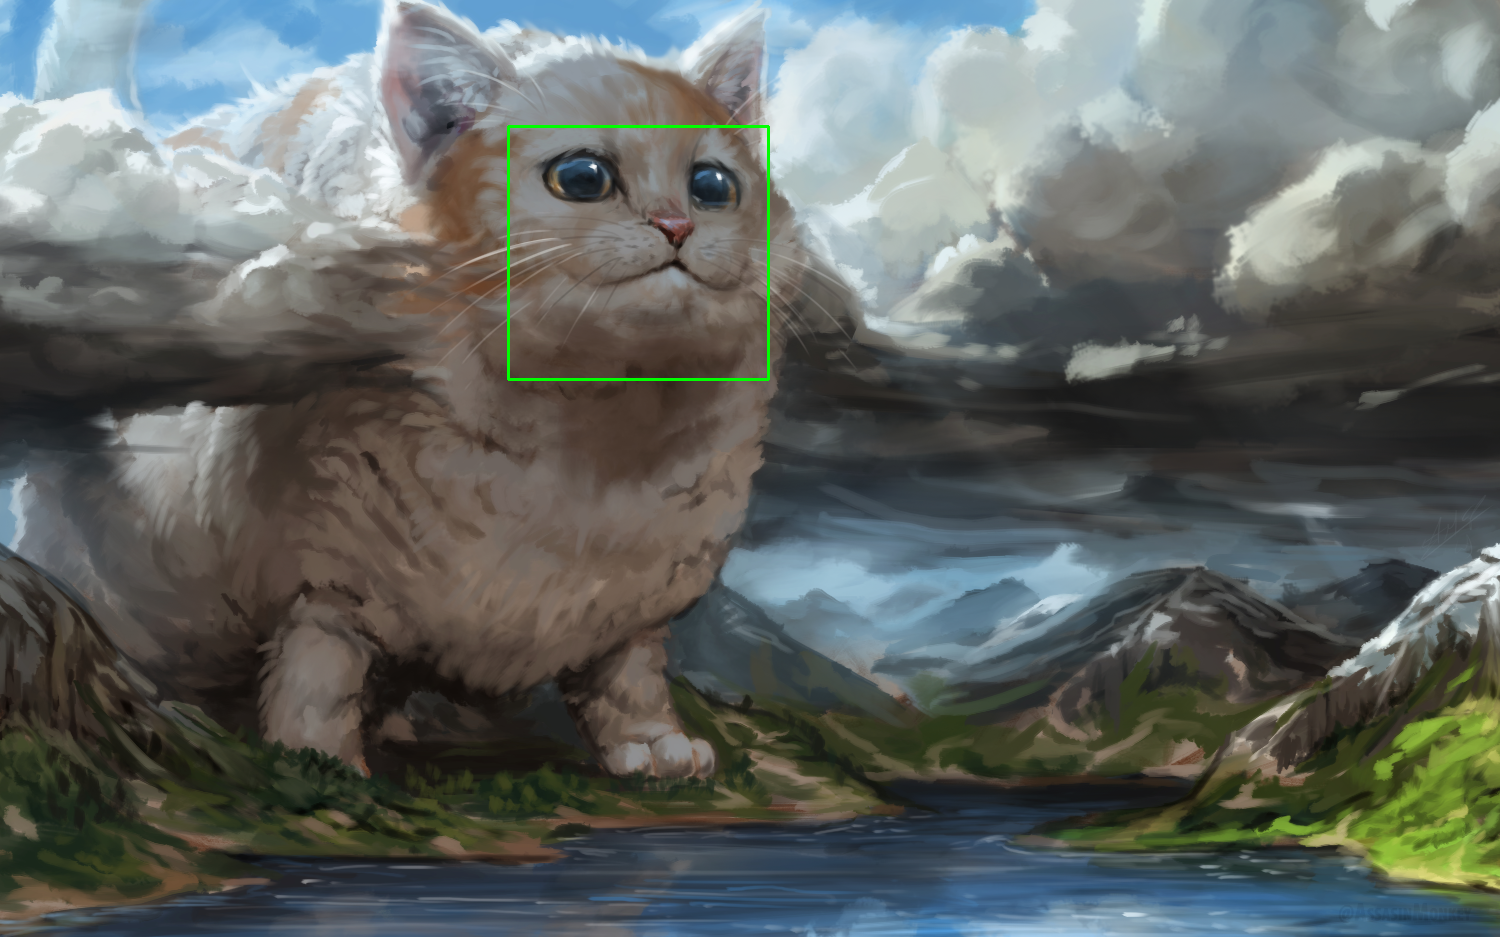
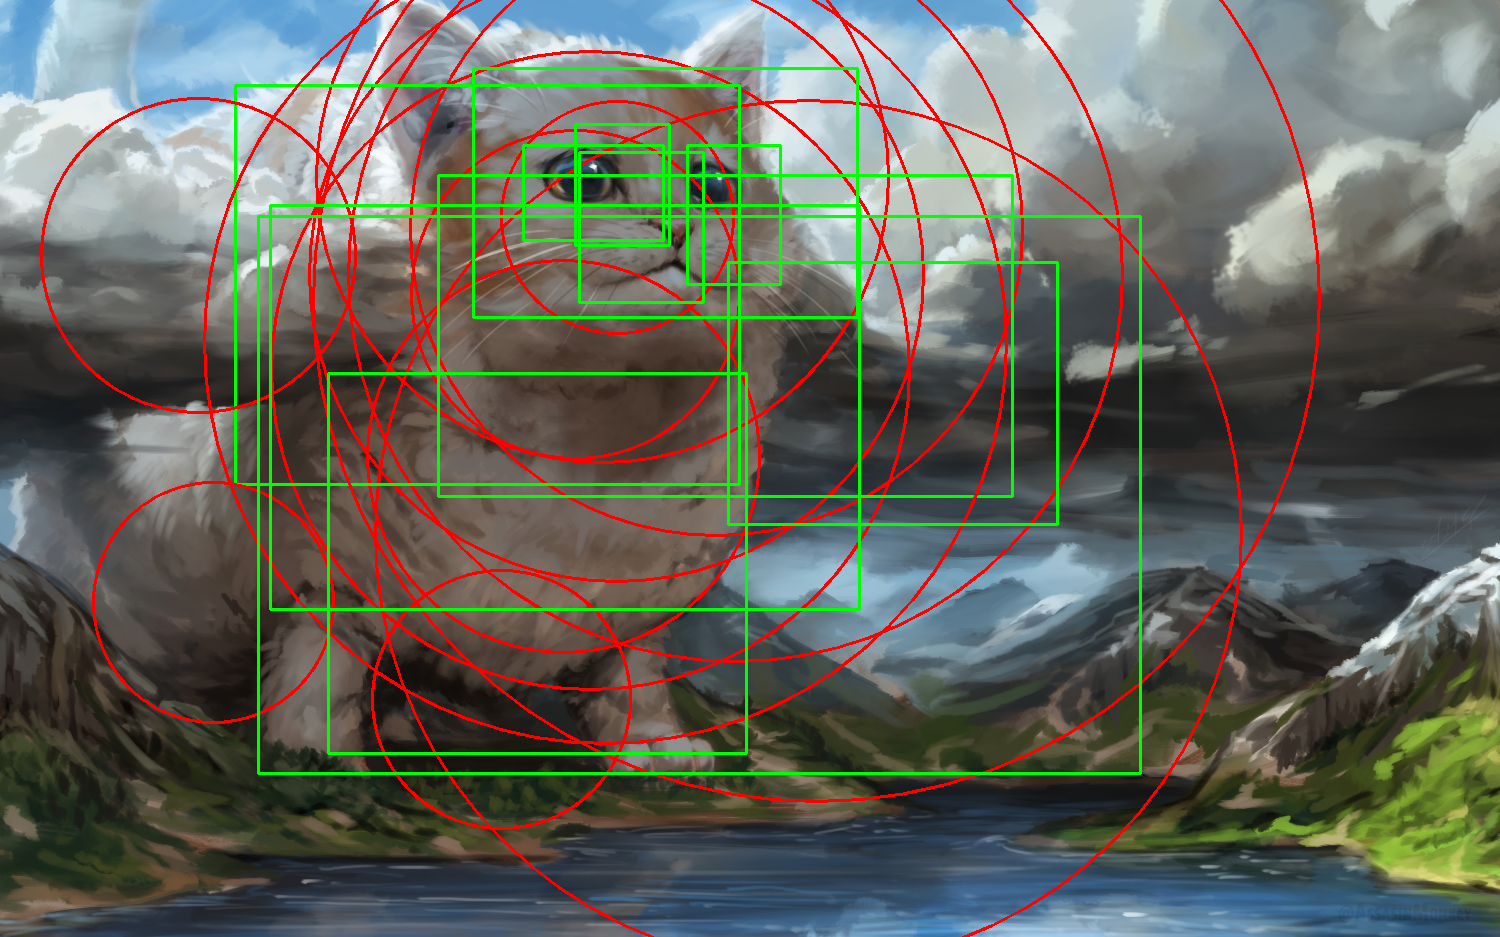
CIRCLE!

diff --git a/UserInterface.py b/UserInterface.py
@@ -1,4 +1,5 @@
 from dataclasses import dataclass
+import math
     
 import numpy as np
 import cv2 
@@ -16,6 +17,7 @@ class UserInterface():
 
 img = cv2.imread("nowy.jpg")
 img2 = np.zeros((img.shape[0],img.shape[1],4), np.uint8)
+temp=img;
 drawing = False # true if mouse is pressed
 mode = True # if True, draw rectangle.
 ix,iy = -1,-1
@@ -45,8 +47,11 @@ def draw_circle(event,x,y,flags,param):
         cv2.rectangle(img,(ix,iy),(x,y),(0,255,0),2)
 
     else:
-        cv2.circle(img2,(x,y),5,(0,0,255,255),-1)
-        cv2.circle(img,(x,y),5,(0,0,255),-1)
+        sx=int((ix+x)/2)
+        sy=int((iy+y)/2)
+        truR=int(math.sqrt(math.pow(ix-x,2)+math.pow(iy-y,2))/2)
+        cv2.circle(img2,(sx,sy),truR,(0,0,255,255),2)
+        cv2.circle(img,(sx,sy),truR,(0,0,255,255),2)
 
 
 cv2.namedWindow('image')
